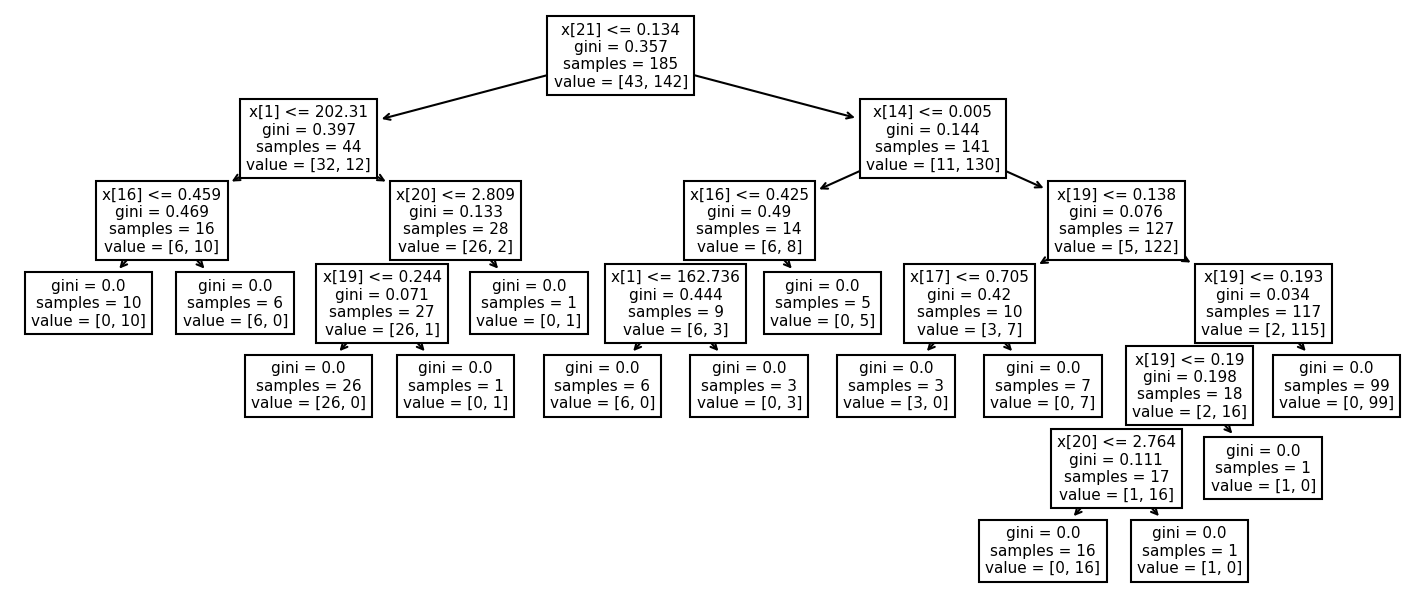
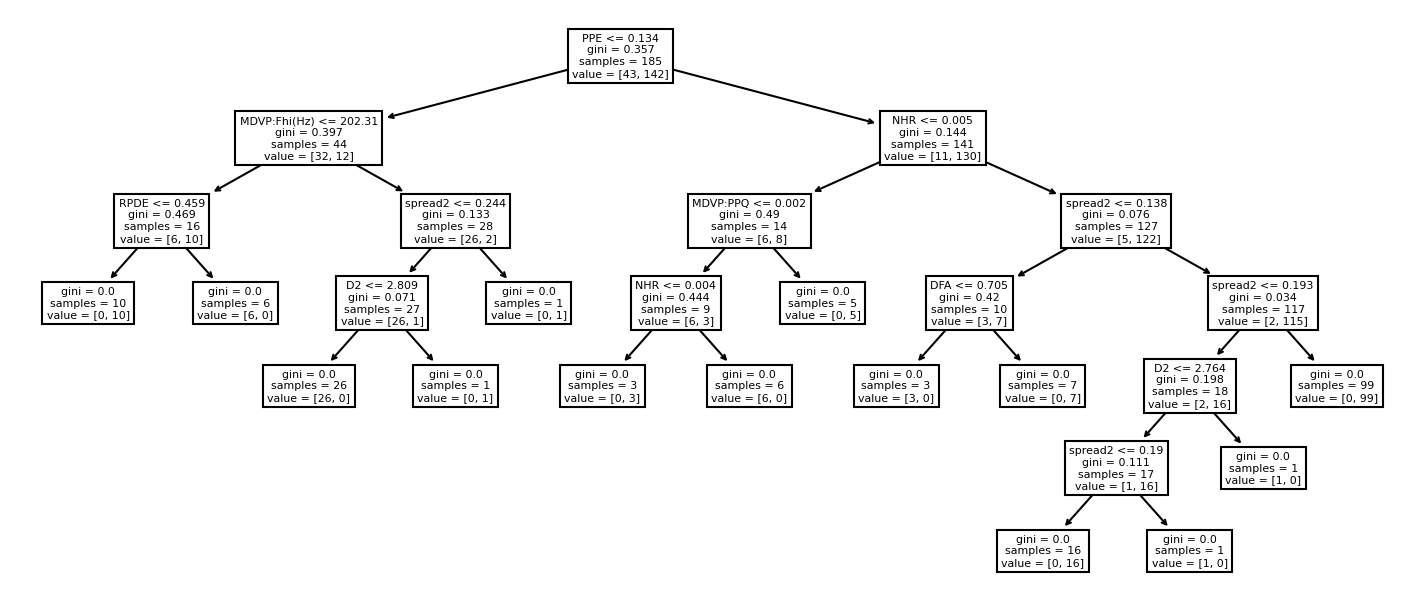
Worked on almost all of the code except gain method

Changed region(s): [[0.0, 0.1483, 0.9881, 0.9786], [0.3705, 0.0, 0.494, 0.1779], [0.5867, 0.1483, 0.7102, 0.2965]]

diff --git a/decisiontree.py b/decisiontree.py
@@ -72,7 +72,7 @@ def main(args):
     # Visualize the tree using matplotlib and plot_tree
     fig, axes = plt.subplots(nrows=1, ncols=1, figsize=(12, 5), dpi=150)
     # ***MODIFY CODE HERE***
-    plot_tree(clf)
+    plot_tree(clf,feature_names=attributes)
 
     if args.save:
         filename = os.path.expanduser(os.path.join(THIS, 'tree.png'))
@@ -84,9 +84,9 @@ def main(args):
     # Validating the root node of the tree by computing information gain
     print("Computing the information gain for the root node...")
     # ***MODIFY CODE HERE***
-    index, thold = -1, -1
-    # index = clf.tree_.feature[0]  # index of the attribute that was determined to be the root node
-    # thold = clf.tree_.threshold[0]  # threshold on that attribute
+    #index, thold = -1, -1
+    index = clf.tree_.feature[0]  # index of the attribute that was determined to be the root node
+    thold = clf.tree_.threshold[0]  # threshold on that attribute
     gain = information_gain(xtrain, ytrain, index, thold)
     print(f"  Root: {attributes[index]}<={thold:0.3f}, Gain: {gain:0.3f}")
 
@@ -96,9 +96,9 @@ def main(args):
     print("=======================")
     # ***MODIFY CODE HERE***
     print("Predicting labels for training data...")
-    ptrain = -1
+    ptrain = clf.predict(xtrain)
     print("Predicting labels for testing data...")
-    ptest = -1
+    ptest = clf.predict(xtest)
 
     print("\n=======================")
     print("PERFORMANCE METRICS")
@@ -106,15 +106,28 @@ def main(args):
 
     # Compare training and test accuracy
     # ***MODIFY CODE HERE***
-    accuracy_train = -1
-    accuracy_test = -1
-    print(f"Training Accuracy: ?/? (?%)")
-    print(f"Testing Accuracy: ?/? (?%)")
+    total_correct_train = 0
+    for i in range(len(ptrain)):
+        if ptrain[i] == ytrain[i]:
+            total_correct_train += 1
+    accuracy_train = total_correct_train / len(ptrain)
+
+    total_correct_test = 0
+    for i in range(len(ptest)):
+        if ptest[i] == ytest[i]:
+            total_correct_test += 1
+    accuracy_test = total_correct_test / len(ptest)
+    
+    print(f"Training Accuracy: {total_correct_train}/{len(ptrain)} ({accuracy_train}%)")
+    print(f"Testing Accuracy: {total_correct_test}/{len(ptest)} ({accuracy_test}%)")
 
     # Show the confusion matrix for test data
     # ***MODIFY CODE HERE***
-    print("Confusion matrix:")
 
+    cm = confusion_matrix(ytest, ptest)
+    print("Confusion matrix:")
+    print(cm)
+    
     # Debug (if requested)
     if args.debug:
         pdb.set_trace()
